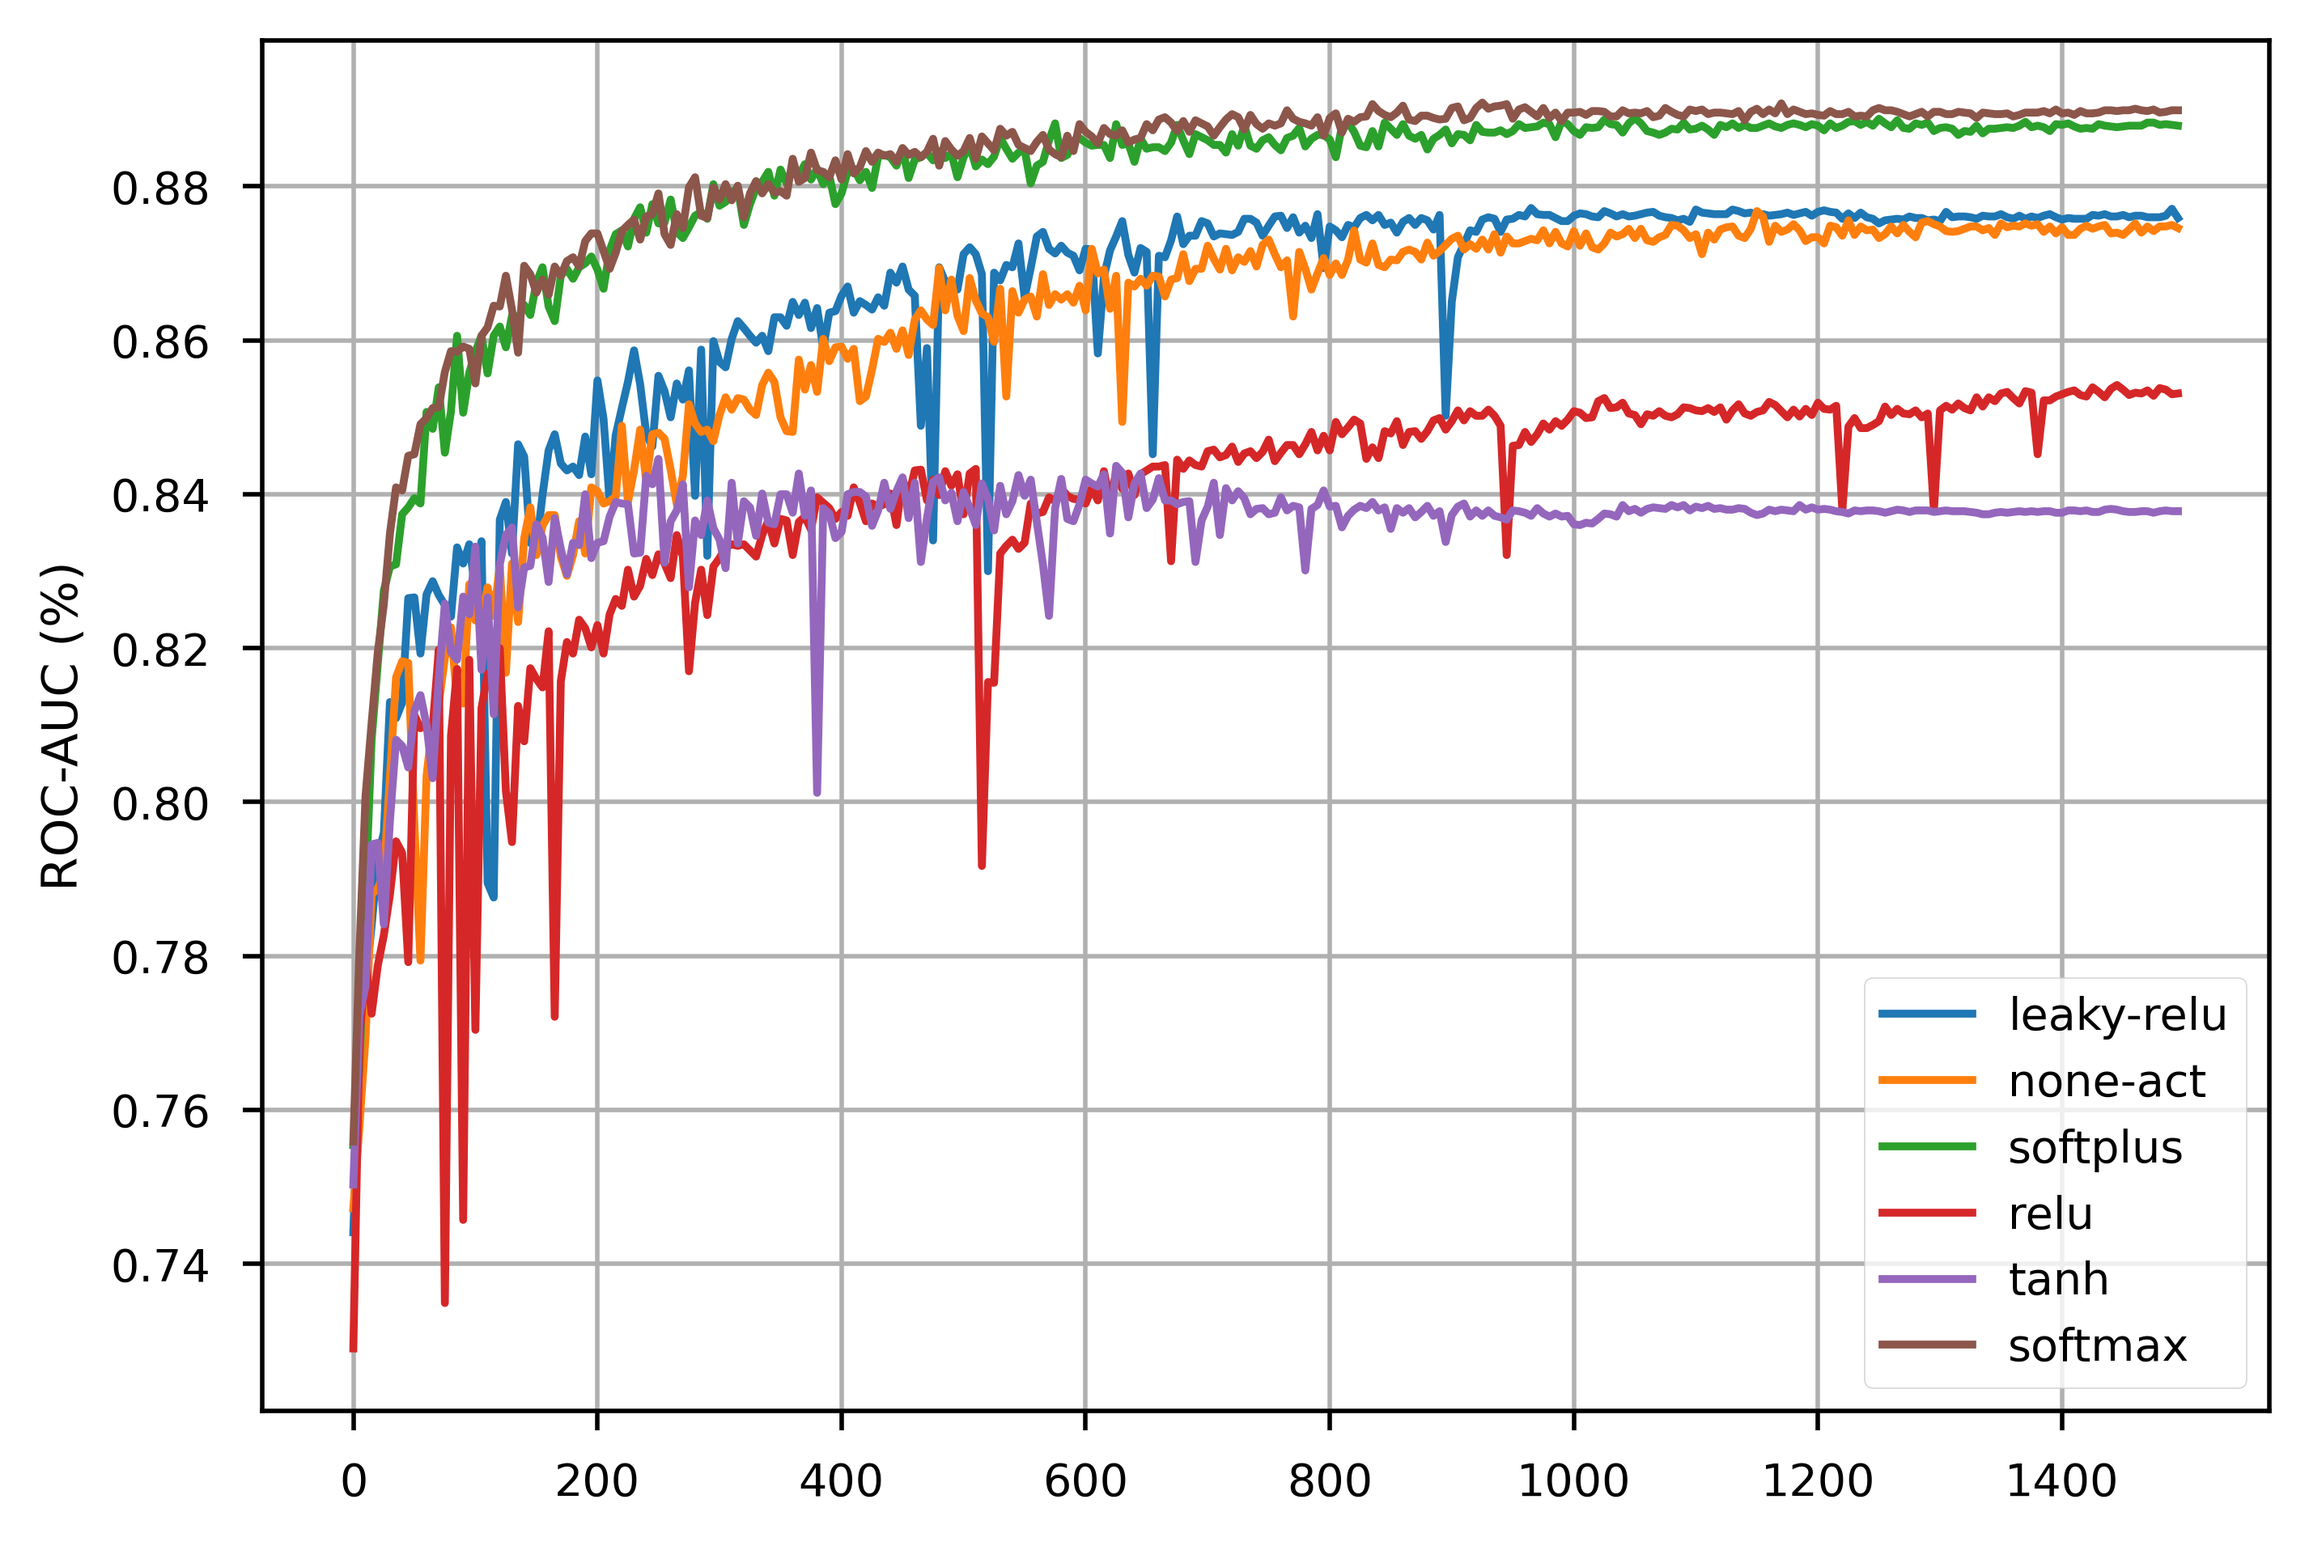
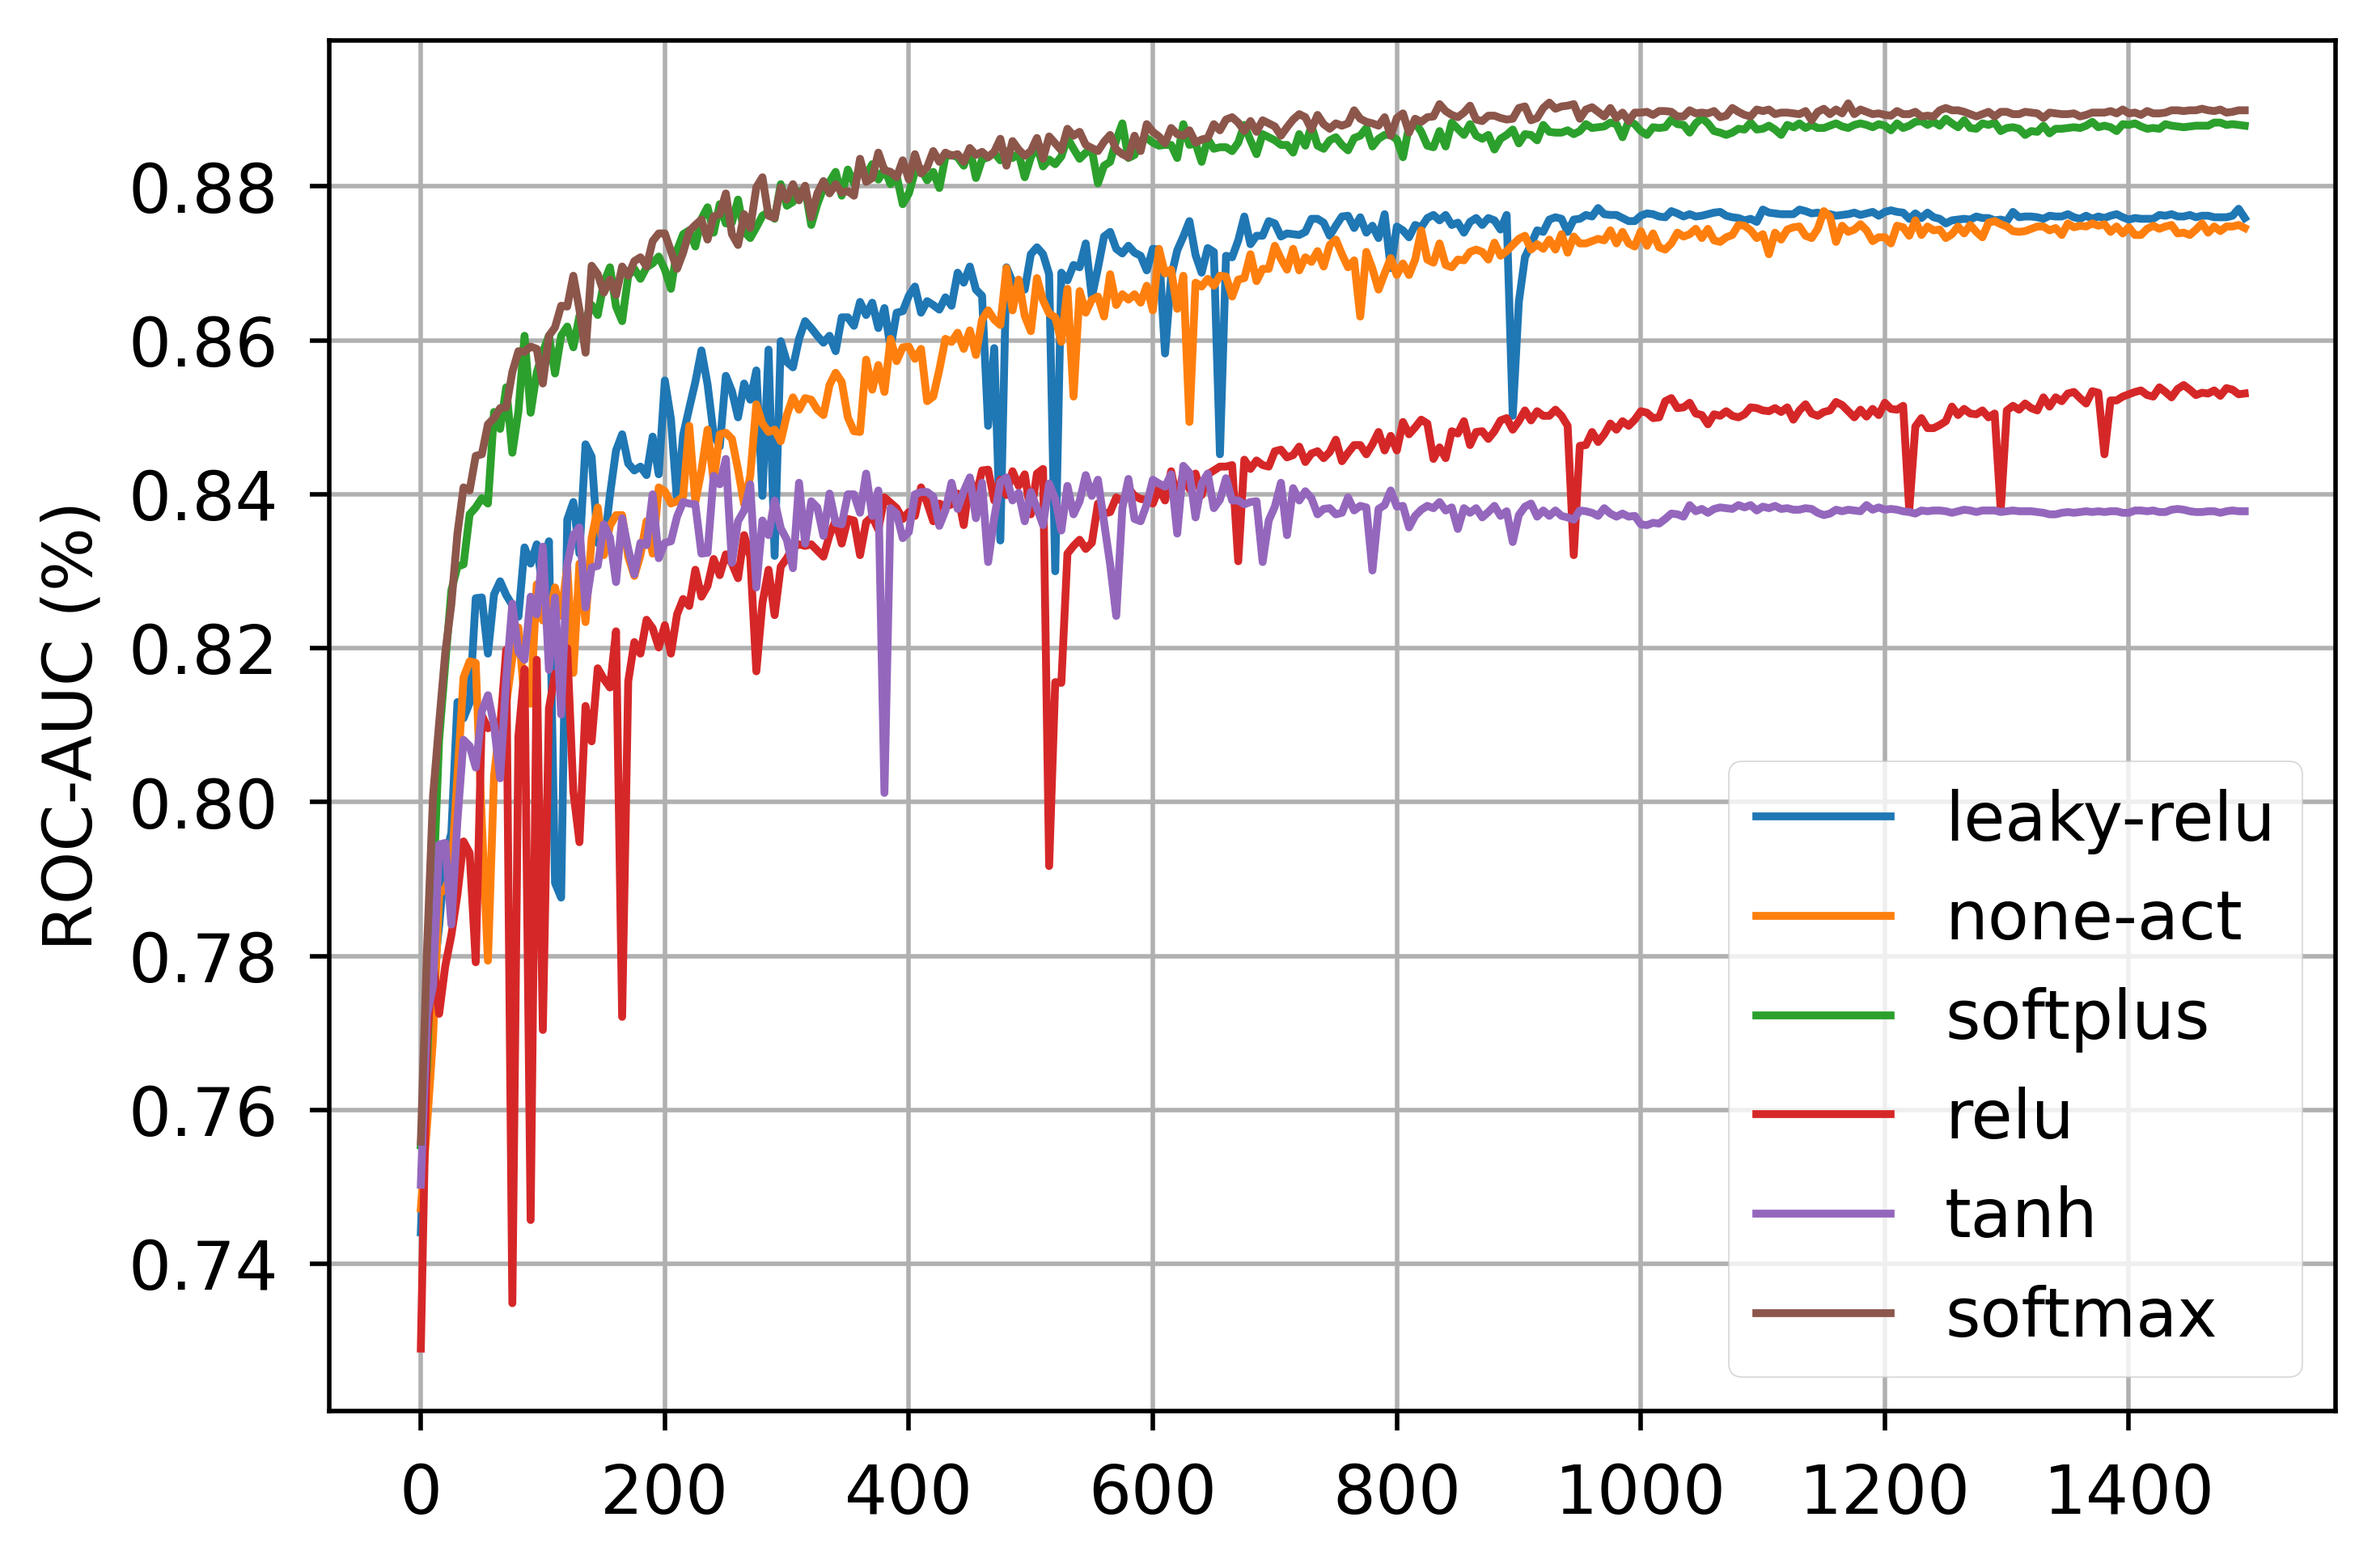
lagency

Changed region(s): [[0.0, 0.0309, 0.9982, 0.988], [0.9671, 0.8027, 0.9982, 0.8336]]

diff --git a/ogbn-proteins/src/plot/plot_gipa_layer.py b/ogbn-proteins/src/plot/plot_gipa_layer.py
@@ -45,14 +45,16 @@ plt.plot(x, y3, label="Validation set",marker='o')
 # plt.plot(x, y1, 'seagreen', label = 'BaseModel Hitrate', marker='o')
 # ax2.plot(x, y2, 'b-')
 # ax3.plot(x, y1, 'seagreen', label = 'ww', marker='o')
-plt.xlabel("Number of layers")
+plt.xticks(fontsize=12)
+plt.yticks(fontsize=12)
+plt.xlabel("Number of layers", fontsize=12)
 # plt.ylabel("Positive Score", color='cornflowerblue')
 
-plt.ylabel("ROC-AUC")
+plt.ylabel("ROC-AUC", fontsize=12)
 plt.xticks(x,['1','2','3','4','5','6'])
 
 
-plt.legend(loc=4)
+plt.legend(loc=4, fontsize=12)
 plt.grid(True)
 # plt.show()
 plt.savefig('./gipa_layer.png', dpi=500, bbox_inches='tight')

diff --git a/ogbn-proteins/src/plot/plot_gipa_activation.py b/ogbn-proteins/src/plot/plot_gipa_activation.py
@@ -24,9 +24,11 @@ def plot(file_name, out_put):
     data_dict = read_act_data(file_name)
     for name in data_dict.keys():
         plt.plot(x, data_dict[name], label=name)
+    plt.xticks(fontsize=12)
+    plt.yticks(fontsize=12)
 
-    plt.ylabel("ROC-AUC (%)")
-    plt.legend()
+    plt.ylabel("ROC-AUC (%)", fontsize=12)
+    plt.legend(fontsize=12)
     plt.grid(True)
     plt.savefig(out_put, dpi=500, bbox_inches='tight')
 
